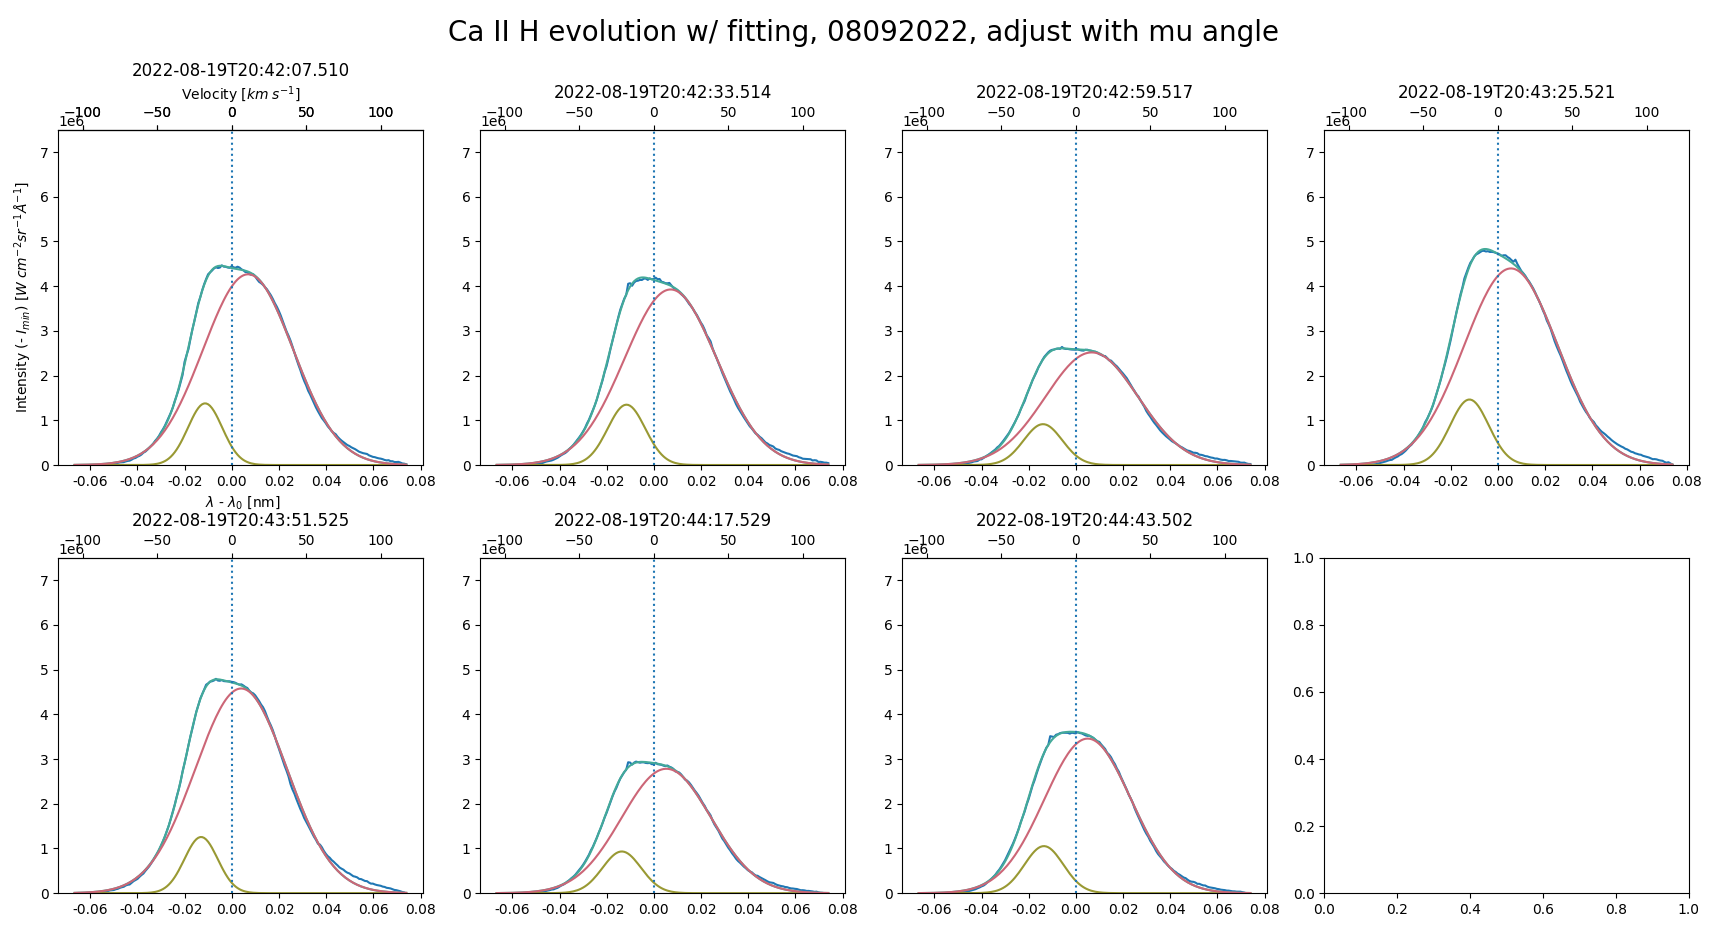
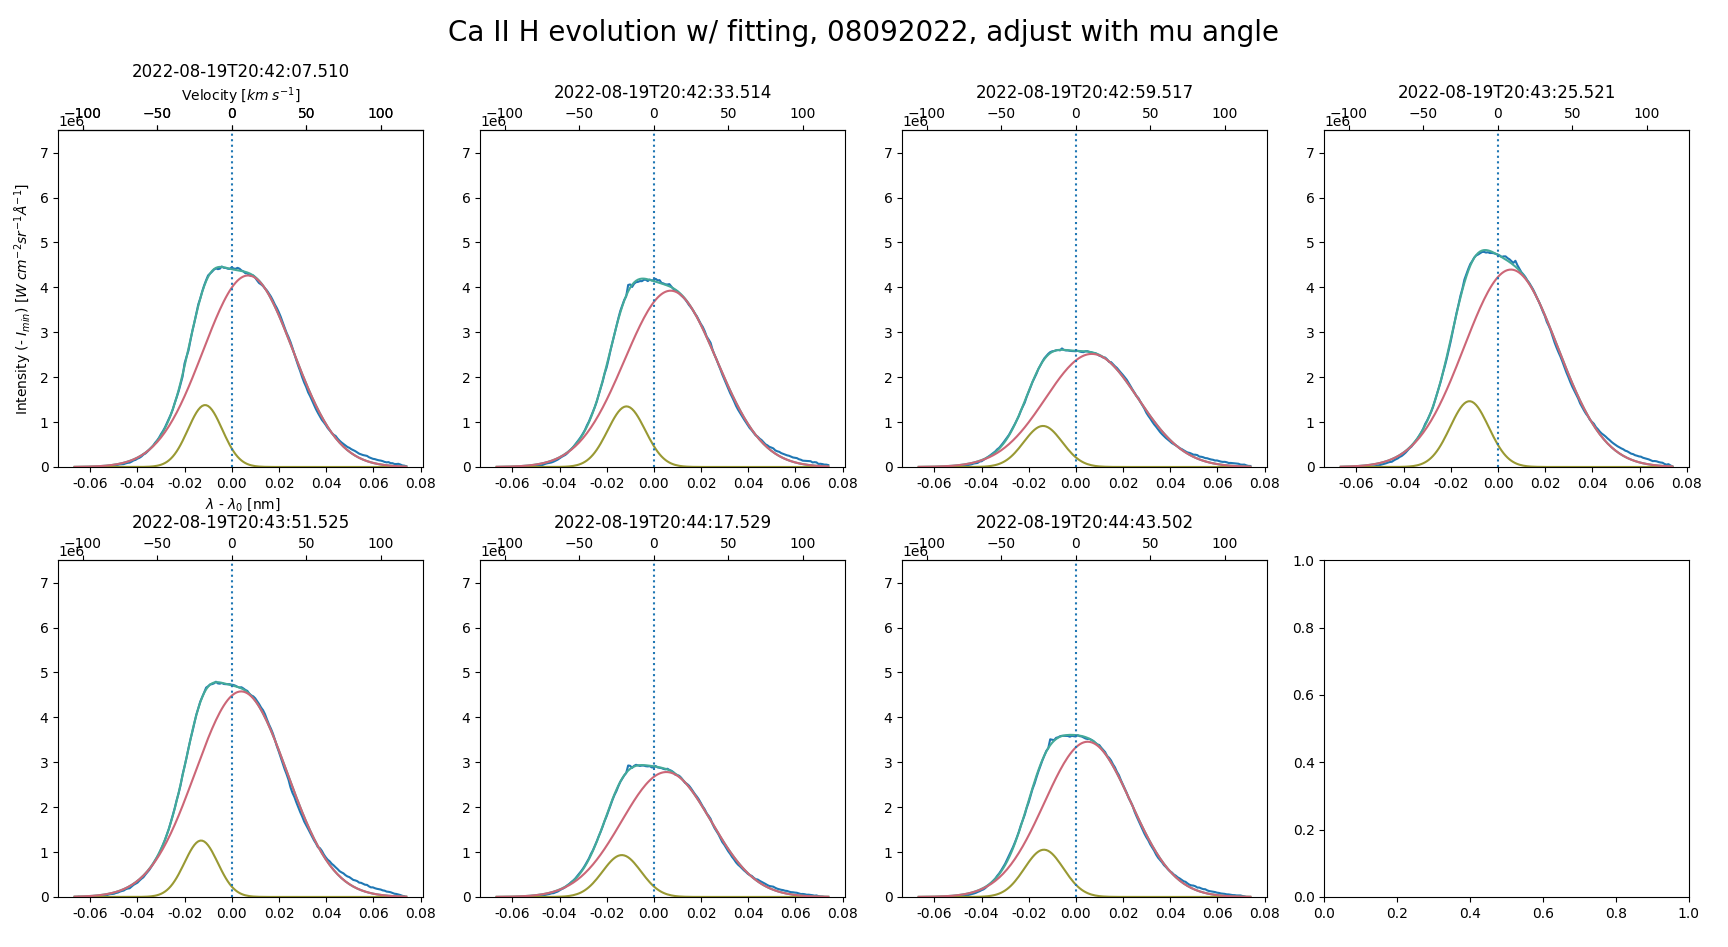
documentation after PSF conv

diff --git a/19_Aug_2022_DKIST_analysis.py b/19_Aug_2022_DKIST_analysis.py
@@ -2,6 +2,7 @@
 # -*- coding: utf-8 -*-
 """
 2 December 2023
+Last updated: 7 March 2024
 Author: Cole Tamburri, University of Colorado Boulder, National Solar 
 Observatory, Laboratory for Atmospheric and Space Physics
 
@@ -15,7 +16,9 @@ Description of script:
     dynamics.
 
 """
+# shift of wavelength range by inspection
 end=0
+
 # package initialize
 import dkistpkg_ct as DKISTanalysis
 import numpy as np
@@ -24,26 +27,17 @@ import matplotlib
 
 matplotlib.rcParams.update(matplotlib.rcParamsDefault)
 
-# establish plotting methods and formats
-# plt.rcParams['text.usetex']=True
-# plt.rcParams['font.family']='sans-serif'
-# plt.rcParams['font.sans-serif'] = ['Helvetica']
-# plt.rcParams['axes.labelsize'] = 25
-# plt.rcParams['lines.linewidth'] = 2
-# matplotlib.rc('xtick', labelsize=20) 
-# matplotlib.rc('ytick', labelsize=20) 
-
 # color scheme for plotting
 muted = DKISTanalysis.color_muted2()
 
 # path and file ID for ViSP data
 path = '/Volumes/ViSP_External/pid_1_84/'
 folder1 = 'AZVXV'
-folder2 = 'ANYDJ' # for QS calibration
+folder2 = 'ANYDJ' # for QS calibration - data from 22UT on 19 August
 
 # list of files in directory for DKIST/ViSP
-dir_list2 = DKISTanalysis.pathdef(path,folder1)
-dir_list3 = DKISTanalysis.pathdef(path,folder2)
+dir_list2 = DKISTanalysis.pathdef(path,folder1) #flaretime
+dir_list3 = DKISTanalysis.pathdef(path,folder2) #qs
 
 # Stonyhurst lon/lat position of the AR from JHv
 lon = 58.57 #degrees
@@ -71,10 +65,12 @@ clv_corr = DKISTanalysis.limbdarkening(wl, mu=mu, nm=True)
     # for Ca II H (require mu value for determination, be sure to specify
     # correct wl units)
     
+# limb darkening coefficient, qs
 clv_corrqs = DKISTanalysis.limbdarkening(wl, mu=muqs, nm=True)
     # for Ca II H (require mu value for determination, be sure to specify
     # correct wl units)
     
+# time step start for chosen QS observations
 startstepqs = 250
 
 # process multi-step raster - for qs time
@@ -90,7 +86,7 @@ image_data_arr_arr,i_file_raster1, for_scale, times_raster1 = \
 spatial_range, dispersion_range = DKISTanalysis.spatialaxis(path,folder1,
                                                             dir_list2,line='Ca II H')
 
-# # old code, when basing QS on 15 August 2022 observations
+# # old code, when basing QS on 15 August 2022 disk-center observations
 # #only for 19 August observations, really - the QS will be different for others
 # nonflare_average = np.load('/Users/coletamburri/Desktop/'+\
 #                            'DKIST_Data/bolow_nonflare_average.npy')
@@ -101,11 +97,13 @@ spatial_range, dispersion_range = DKISTanalysis.spatialaxis(path,folder1,
 # nonflare_multfact = np.load('/Users/coletamburri/Desktop/'+\
 #                             'DKIST_Data/bolow_nonflare_mult_fact.npy')
     
-#qs calibration
+# Begin calibration based on QS
+
+# Load Kurucz FTS Atlas
 wlsel, ilamsel = DKISTanalysis.load_fts(dispersion_range)
 wlsel=wlsel/10
 
-#wlsel = wlsel/10
+# Average the QS data for space and time, for selected ranges
 space_and_time_averaged_qs = \
     DKISTanalysis.comp_fts_to_qs(wlsel,ilamsel,dispersion_range, 
                                  image_data_arr_arr_qs, lowint = -500,highint=-1,
@@ -117,61 +115,74 @@ space_and_time_averaged_qs = \
 line1 = 396.7432
 line2 = 396.926
 
+# Definition of "telluric" or other absorption lines for calibration.
+# The QS spectrum is already averaged in space and time, so any absorption lines
+# (as is necessary for the 19 August 2022 observations) are ok
+
 # indices of telluric lines in spectrum - lower
 lowinds = [400,625]
 
 # indices of telluric lines in spectrum - upper
 highinds = [450,690]
 
-# dispersion range and multiplicative ratio from intensity calibration
-new_dispersion_range, rat = \
-    DKISTanalysis.calib_qs_shift(wlsel,ilamsel,dispersion_range,
-                                 space_and_time_averaged_qs, 
-                                 line1,line2,lowinds,highinds)
-    
-# # but for pid_1_38, observations are not in a quiet sun region, so this function
-# # really just takes a single index to compare the atlas and the observations
-# # and uses that as the multiplicative factor
-# calibration, calibrated_qs,new_dispersion_range2= \
-#     DKISTanalysis.get_calibration_singleval(dispersion_range,\
-#                                             space_and_time_averaged_qs,\
-#                                                 wlsel,ilamsel,\
-#                                                     limbdark_fact=clv_corrqs,
-#                                                     noqs_flag = 1)
+# define the multiplication factor (polynomial), new dispersion range, fit values
+# to scale the quiet sun to FTS atlas
+cont_mult_facts,fit_vals,new_dispersion_range=\
+    DKISTanalysis.get_calibration_poly(dispersion_range,
+                                       space_and_time_averaged_qs,wlsel,ilamsel,
+                                       DKISTanalysis.find_nearest,line1,line2,
+                                       lowinds,highinds,limbdark_fact=clv_corrqs,
+                                       noqs_flag=2)
 
-#original, based on 15 August 2022 QS
-## simplify the quiet sun for comparison to flaretime
-#nonflare_average_avg = np.mean(nonflare_average,axis=1)
-cont_mult_facts,fit_vals,new_dispersion_range=DKISTanalysis.get_calibration_poly(dispersion_range,
-                                                   space_and_time_averaged_qs,wlsel,ilamsel,DKISTanalysis.find_nearest,
-                                                   line1,line2,lowinds,highinds,limbdark_fact=clv_corrqs,
-                                                   noqs_flag=2)
-# load QS intensity calibration results here!
-calibrated_qs=fit_vals*space_and_time_averaged_qs
-nonflare_average_avg = calibrated_qs
-nonflare_multfact = fit_vals
-
-yconv=DKISTanalysis.psf_adjust(wlsel,ilamsel,0.05,new_dispersion_range,calibrated_qs,clv_corrqs,45,DKISTanalysis.gaussian_psf)
-
-#show comparison of atlas to qs
-fig,ax=plt.subplots();ax.plot(new_dispersion_range,calibrated_qs,label='visp');ax.plot(new_dispersion_range,yconv*clv_corrqs,label='convolved');ax.plot(wlsel,clv_corrqs*ilamsel,label='raw');ax.set_xlim([396.6,397.2]);ax.set_ylim([0,0.6e6]);ax.legend();plt.show()#nonflare_multfact=np.full(len(dispersion_range), calibration[0])
-
-#do another iteration of this step, after peforming the PSF convolution
-cont_mult_facts,fit_vals,new_dispersion_range=DKISTanalysis.get_calibration_poly(new_dispersion_range,
-                                                   space_and_time_averaged_qs,new_dispersion_range,yconv,DKISTanalysis.find_nearest,
-                                                   line1,line2,lowinds,highinds,limbdark_fact=clv_corrqs,
-                                                   noqs_flag=2)
+# calibrate the quiet sun 
 calibrated_qs=fit_vals*space_and_time_averaged_qs/clv_corrqs
 nonflare_average_avg = calibrated_qs
 nonflare_multfact = fit_vals
-# intensity calibration, background subtraction                            
+
+# full width of half max of PSF to convolve with atlas to match instrument
+fwhm = 0.05
+
+# number of points to interpolate Atlas to in PSF convolve to match instrument
+ntw = 45
+
+# perform PSF convolution.  Result 'yconv' is Atlas*PSF
+yconv=DKISTanalysis.psf_adjust(wlsel,ilamsel,fwhm,new_dispersion_range,
+                               calibrated_qs,clv_corrqs,ntw,
+                               DKISTanalysis.gaussian_psf)
+
+#show comparison of atlas to qs
+fig,ax=plt.subplots()
+ax.plot(new_dispersion_range,calibrated_qs,label='visp')
+ax.plot(new_dispersion_range,yconv*clv_corrqs,label='convolved')
+ax.plot(wlsel,clv_corrqs*ilamsel,label='raw')
+ax.set_xlim([396.6,397.2]);ax.set_ylim([0,0.6e6])
+ax.legend();plt.show()
+
+#do another iteration of the calibration step after peforming the PSF conv.
+cont_mult_facts,fit_vals,\
+    new_dispersion_range=\
+        DKISTanalysis.get_calibration_poly(dispersion_range,
+                                           space_and_time_averaged_qs,
+                                           new_dispersion_range,yconv,
+                                           DKISTanalysis.find_nearest,
+                                           line1,line2,lowinds,highinds,
+                                           limbdark_fact=clv_corrqs,noqs_flag=2)
+        
+# calibrated quiet sun, again, using updated fit values
+calibrated_qs=fit_vals*space_and_time_averaged_qs/clv_corrqs
+nonflare_average_avg = calibrated_qs
+nonflare_multfact = fit_vals
+
+# intensity calibration, background subtraction for flare-time                            
 scaled_flare_time, bkgd_subtract_flaretime = \
     DKISTanalysis.scaling(for_scale, nonflare_multfact,clv_corr,
                           nonflare_average_avg,end=end)
 
+# definition of index bounds for Ca II H lines
 caII_low_foravg = 525
 caII_high_foravg = 600
 
+#indices to search within to find flare kernel center
 spacelow = 1000
 spacehigh = -1
 
@@ -188,30 +199,38 @@ DKISTanalysis.pltsubtract(dispersion_range,nonflare_average_avg,
 # for variations in pseudo-continuum.  If PTE high, cannot be explained by the
 # solar activity difference between quiet sun and flare-time
 
-# comment out if don't need PTE (shouldn't, usually)
+########
+## Comment out this block if don't need PTE (shouldn't, usually)
 # stdevs_flaretime, ptes_flaretime = \
     # DKISTanalysis.deviations(bkgd_subtract_flaretime,nonflare_average,
                              # nonflare_stdevs)
 
 # DKISTanalysis.pltptes(ptes_flaretime,image_data_arr_arr_raster1)
 
+########
+
 # equivalent widths, effective widths, widths
+# indices defining line locations
 caII_low = 480
 caII_high = 650
 hep_low = 700
 hep_high = 850
 
+#first profile, to use in testing
 sample_flaretime = bkgd_subtract_flaretime[0,:,maxindices[0]]
 
-# perform following line only if need to calculate continuum window 
+########
+# perform following block only if need to calculate continuum window 
 # independently of width determiation; 
 # exists within width determination script as well
 
 #nolines, cont_int_array, cont_int_wave_array = \
     # DKISTanalysis.contwind(sample_flaretime,dispersion_range,maxinds,avgs,
                            # low,high)
+                           
+########
 
-# line widths, strengths initial arrays
+# line widths, strengths - initialize arrays
 ew_CaII_all_fs = np.zeros((len(scaled_flare_time)-5,
                            np.shape(bkgd_subtract_flaretime)[2]))
 ew_hep_all_fs = np.zeros((len(scaled_flare_time)-5,
@@ -252,7 +271,9 @@ sel = bkgd_subtract_flaretime[0,caII_low:caII_high,sliceind]-\
     min(bkgd_subtract_flaretime[0,caII_low:caII_high,sliceind])
 selwl = new_dispersion_range[caII_low:caII_high]
         
+# parameter guesses
 parameters=[2e6,396.82,0.015,6e6,396.86,0.015]
+
 # fitting of spectral lines, e.g. double-Gaussian (for Ca II H)
 storeamp1,storeamp2,storesig1,storesig2,storemu1,storemu2 = \
     DKISTanalysis.gauss2fit(storeamp1,storemu1,storesig1,storeamp2,storemu2,
@@ -279,7 +300,7 @@ fits_1g,fits_2g,fits_2gneg,params2gaussnew,stopind = \
                                   DKISTanalysis.double_gaussian, 
                                   DKISTanalysis.gaussian, 
                                   selwl,sel,[4e6,396.85,0.02],
-                                  [2e6,396.82,0.015,6e6,396.86,0.015],
+                                  parameters,
                                   [.5e6,396.85,0.015,-1e6,396.85,0.015],
                                   maxindices,pid='pid_1_84', date = '08/09/2022',
                                   line = 'Ca II H',nimg = 7,
@@ -287,7 +308,10 @@ fits_1g,fits_2g,fits_2gneg,params2gaussnew,stopind = \
 
 # plot results of Gaussian fitting
 
+# note for this particular go-around
 note = ', adjust with mu angle'
+
+#plot results of fitting
 DKISTanalysis.pltfitresults(bkgd_subtract_flaretime,dispersion_range,
                             DKISTanalysis.double_gaussian,
                             DKISTanalysis.gaussian,times_raster1,muted,

diff --git a/dkistpkg_ct.py b/dkistpkg_ct.py
@@ -1793,6 +1793,9 @@ def calib_qs_shift(wlsel, ilamsel, dispersion_range, space_and_time_averaged_qs,
     atlas.  Performed after loading reference spectrum and quiet Sun, using 
     two absorption lines (with indices in observation spectrum, and reference
     wavelengths from atlas) in order to determine plate scale.
+    
+    This is outdated as of 7 March 2024.  The whole calibration process is now
+    included in the get_calibration_poly function, applied to 19 August 2024
     """
     
 
@@ -1868,6 +1871,7 @@ def get_calibration_singleval(wave_obs, spec_obs, wave_atlas, spec_atlas,
         respectively
     Author: Carlos Diaz Baso, Gregal Vissers (ISP/SU 2020), minor modifications
         from Cole Tamburri and Rahul Yadav (CU Boulder/NSO 2023)
+    
     """
     wave_obs = np.array(wave_obs)
     if wave_idx is None:
@@ -2062,10 +2066,12 @@ def get_calibration_poly(wave_obs, spec_obs, wave_atlas, spec_atlas,find_nearest
     mult_fit = np.polyfit(new_dispersion_range[obs_cont_loc],cont_mult_facts,2)
     fit_cont_mult = np.poly1d(mult_fit)
     fit_vals = fit_cont_mult(new_dispersion_range)
-    if noqs_flag==1:
-        return cont_mult_facts, fit_vals, new_dispersion_range,calibrated_qs
-    else:
-        return cont_mult_facts, fit_vals, new_dispersion_range
+    
+    # if noqs_flag==1:
+    #     return cont_mult_facts, fit_vals, new_dispersion_range,calibrated_qs
+    # else:
+        
+    return cont_mult_facts, fit_vals, new_dispersion_range
 
 
 def plot_calibration(new_dispersion_range, visp_qs_obs, wlsel, ilamsel,
